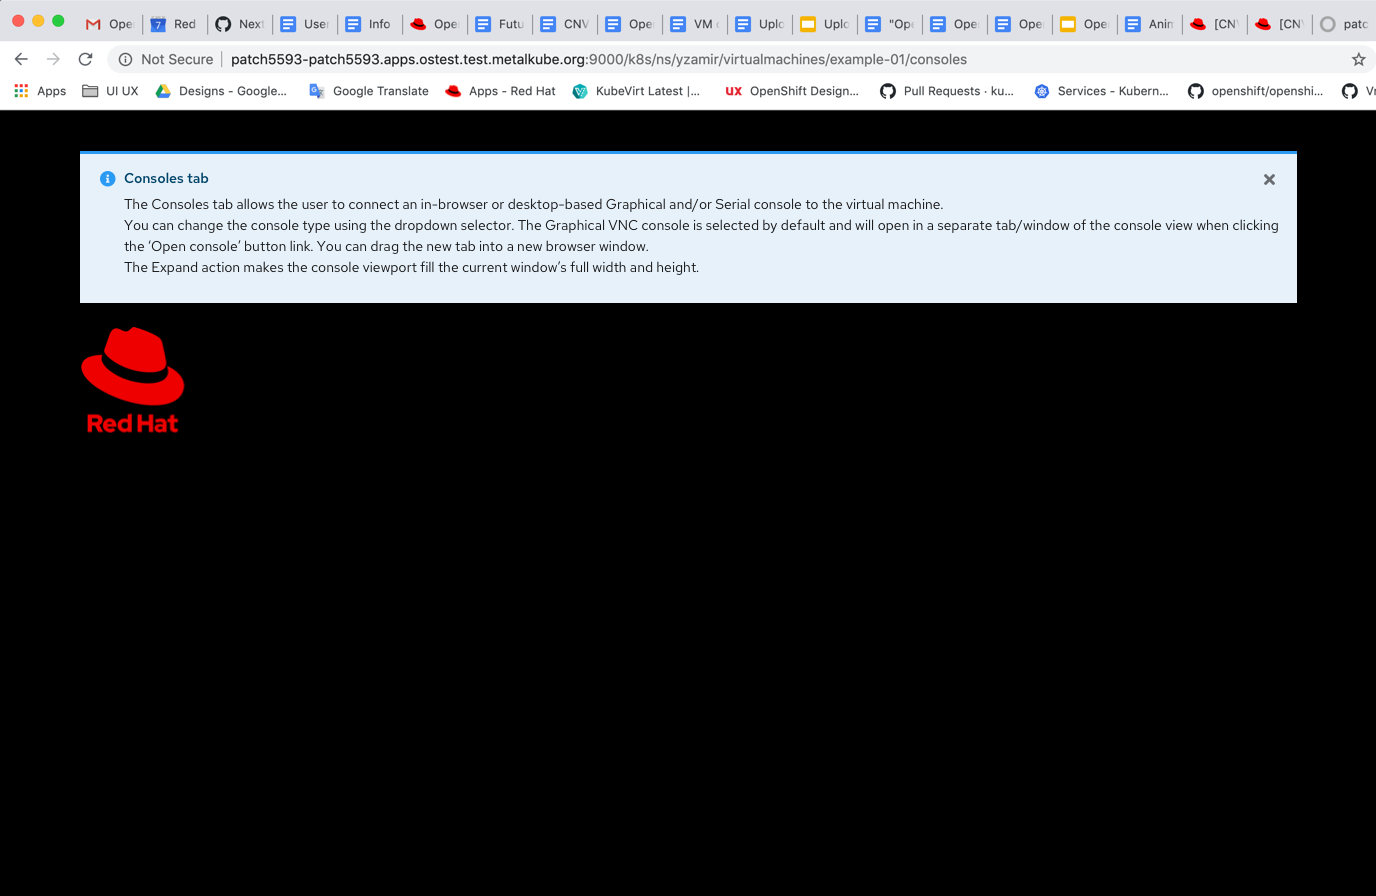
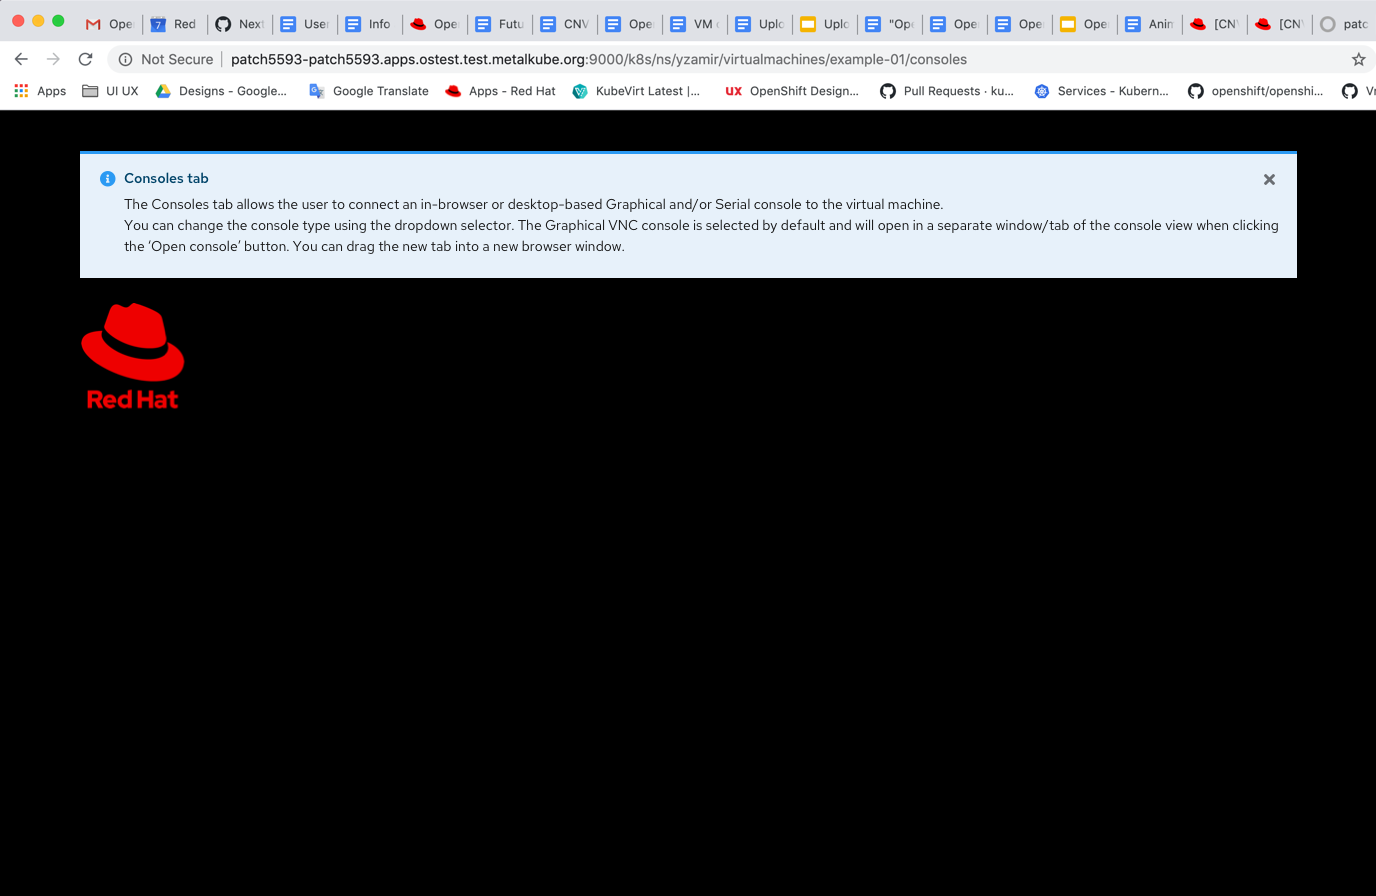
text nits in the notification

Changed region(s): [[0.0312, 0.25, 0.9688, 0.5], [0.7188, 0.25, 0.7812, 0.2812]]

diff --git a/designs/virtualization/4.x/vnc-in-new-window/vnc-in-new-window.md b/designs/virtualization/4.x/vnc-in-new-window/vnc-in-new-window.md
@@ -2,13 +2,13 @@
 parent: Virtualization
 version: 4.x
 ---
-# VNC in a new window (tab)
+# VNC in a new window / tab
 
 ## In the Administrator console
 
 The Consoles tab allows the user to connect an in-browser or desktop-based Graphical and/or Serial console to the virtual machine.
-We’ll add a new button link ‘Open Console’.
-Users will be able to change the console type using the dropdown selector. The Graphical VNC console is selected by default and will open in a separate tab of the console view when clicking the ‘Open console’ button link. The default will be set to open the console in a new tab. Users will be able to drag the tab to be a new window.
+We’ll add a new button ‘Open Console’.
+Users will be able to change the console type using the dropdown selector. The Graphical VNC console is selected by default and will open in a separate window or tab of the console view when clicking the ‘Open console’ button. The default will be set to open the console in a new window. Users will be able to drag the tab to be a new window.
 The Expand action makes the console viewport fill the current window’s full width and height.
 
 ![open from the new button](img/Open-console-1c.png)
@@ -29,20 +29,19 @@ As well as from the Actions dropdown menu.
 
 # Design a VNC console in a new tab 
 
-When users click the ‘Open Console’ button, they will get a new tab that represents another OS (no toolbar) with a dismissble inline info notification about the consoles tab features.
-They will be able to toggle between the 2 tabs: their original OpenShift cluster and the other OS tab they have opened.
+We'll add a dismissble inline info notification explaining about the consoles tab features.
+Users will be able to toggle between the 2 tabs or tab/ window: their original OpenShift cluster and the other OS they have opened.
 The info notification text is:
 
 ######Consoles tab
 
 The Consoles tab allows the user to connect an in-browser or desktop-based Graphical and/or Serial console to the virtual machine.
-You can change the console type using the dropdown selector. The Graphical VNC console is selected by default and will open in a separate tab/window of the console view when clicking the ‘Open console’ button link. You can drag the new tab into a new browser window.
-The Expand action makes the console viewport fill the current window’s full width and height.
+You can change the console type using the dropdown selector. The Graphical VNC console is selected by default and will open in a separate window/tab of the console view when clicking the ‘Open console’ button. You can drag the new tab into a new browser window.
 
 ![console opens in new tab](img/Detached3-new-tab.png)
 
 ## Design a VNC console in a new window
 
-Another option will be that the console will open in a new window (vs. to a new tab)
+When the console opens in a new window 
 
 ![console opens in new window](img/Detached3-new-window.png)
